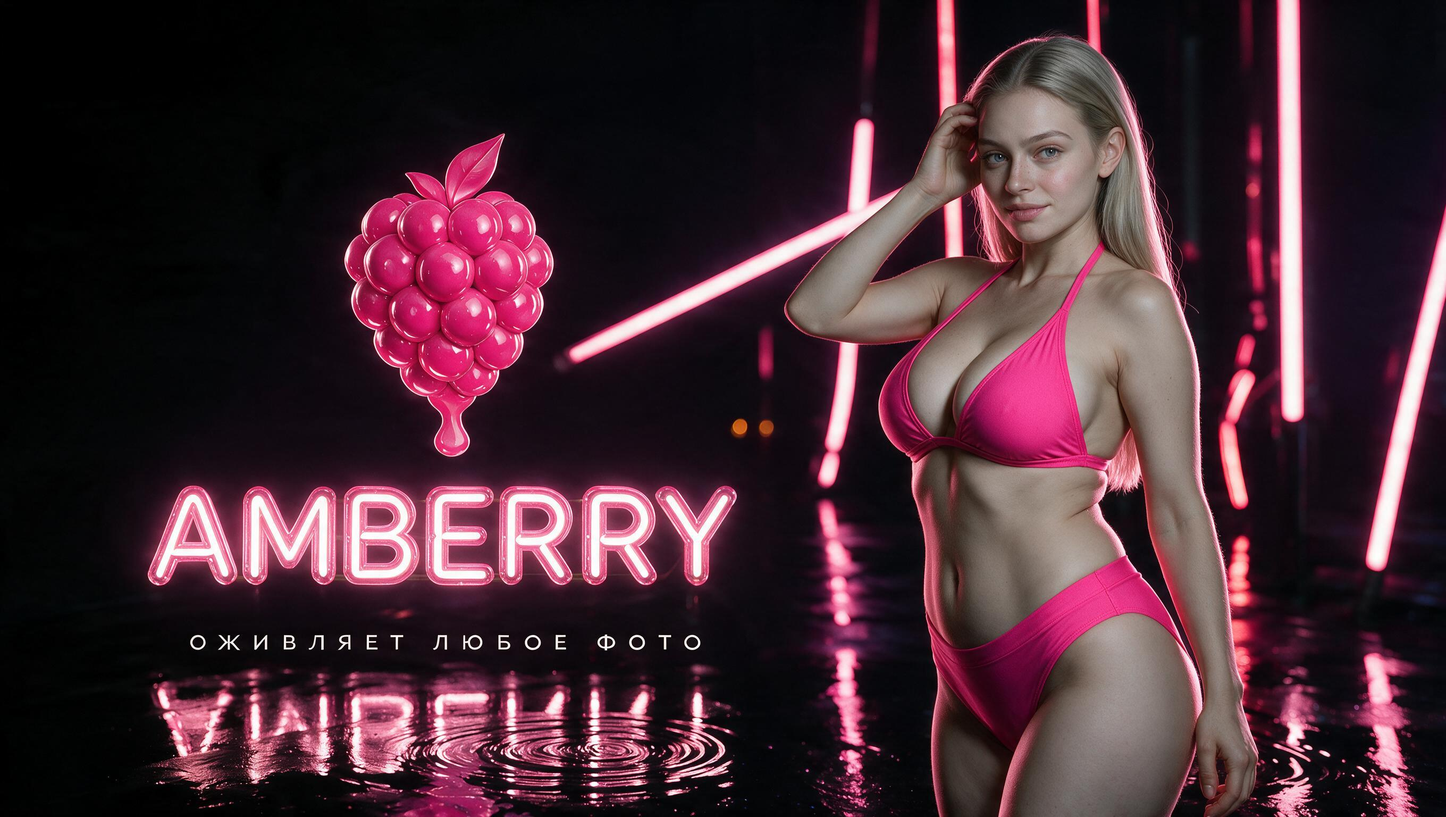
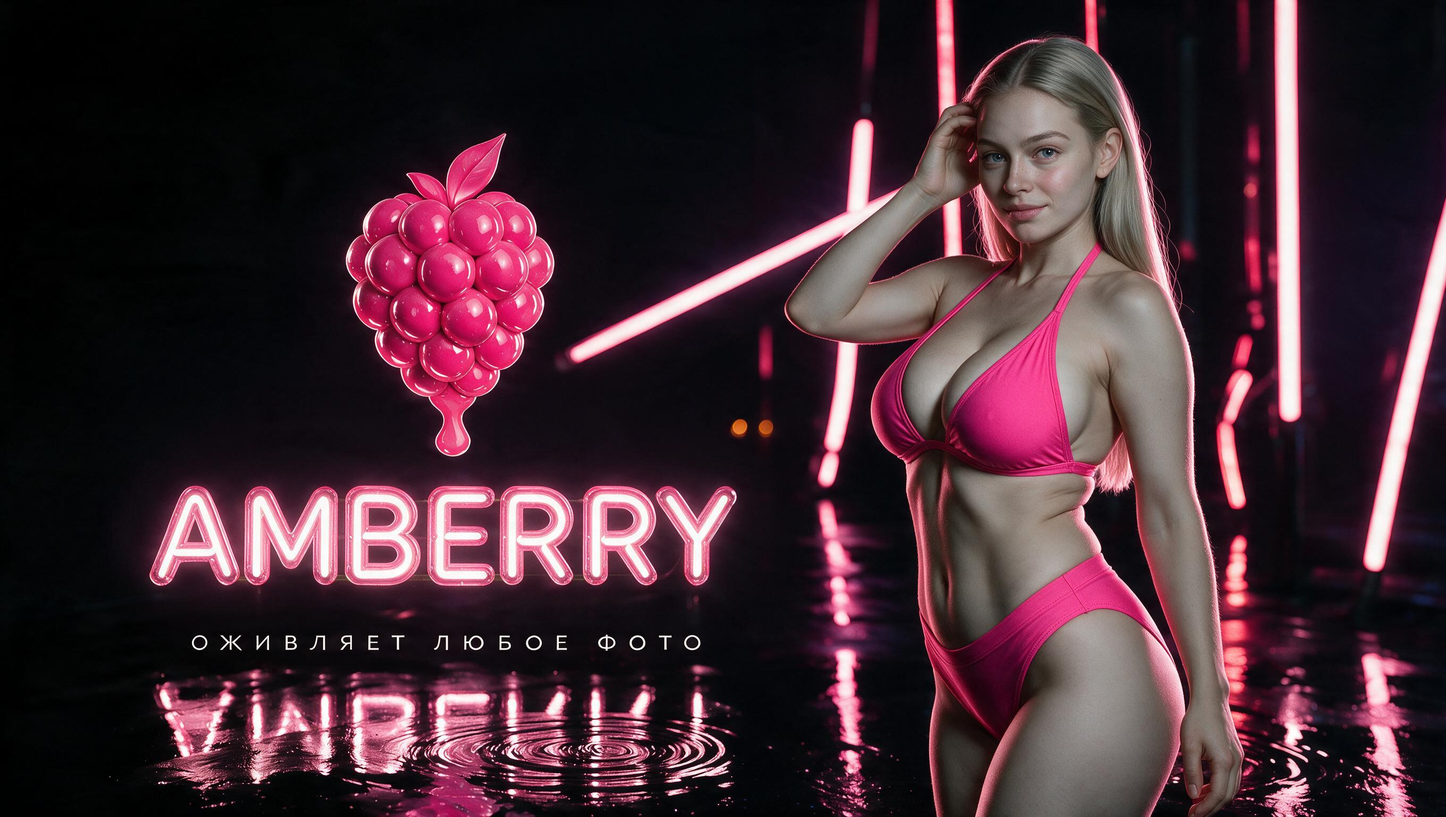
Заставка: плоский живот при полной груди и бёдрах
Руководитель на прошлый кадр: «жирок убирай». Формы при этом оставить.

В промпт добавлен отдельный абзац про середину корпуса, и он нарочно
тянет в ДРУГУЮ сторону от груди и бёдер: плоский подтянутый живот,
косые мышцы режут талию, никакой мягкости и складки над поясом. В
отрицание добавлены belly fat, soft stomach, belly roll, muffin top,
thick waist - без этого модель читает «пышные формы» целиком и
добавляет объём заодно и в талию.

Контраст тяжёлой груди, жёсткого живота и широких бёдер и есть тот
силуэт, который просили.

Claude-Session: https://claude.ai/code/session_014k3YT9DWK5PbNrwRgKykrK

diff --git a/rocket-panel/brand-amberry/start/сделать_баннер.py b/rocket-panel/brand-amberry/start/сделать_баннер.py
@@ -46,8 +46,18 @@ chest: a deep neckline of cleavage, real volume and natural downward
 weight filling the halter top completely so the fabric is stretched
 taut over it, a visible soft swell above the neckline. The previous
 attempt left her flat chested and that is exactly what must not happen
-again. Pair that bust with a clearly nipped narrow waist, wide rounded
-hips and full rounded glutes, strong shapely thighs. The silhouette should read as unmistakably voluptuous and
+again. Pair that bust with wide rounded hips and full
+rounded glutes and strong shapely thighs.
+
+HER MIDSECTION IS THE OTHER HALF OF THIS, and it must go the OPPOSITE
+way from the bust and hips: a flat, taut, athletic stomach. Tight
+abdominal wall with a faint visible line down the centre and the soft
+suggestion of upper abs, the obliques cutting a clean sharp line into
+the narrow waist. No soft belly, no roll or fold over the waistband, no
+pooch below the navel, no thickness through the middle. She trains: the
+waist is hard and flat while the chest and hips are full. That contrast
+between a heavy bust, a hard flat stomach and wide hips IS the
+silhouette being asked for. The silhouette should read as unmistakably voluptuous and
 womanly from across a room, at thumbnail size, before any detail is
 legible: a pronounced waist to hip ratio, a clear S curve through the
 torso and hip. Soft realistic flesh with believable weight and gentle
@@ -116,6 +126,7 @@ smoothing, no CGI doll look.
 ОТРИЦАНИЕ = ("child, teenager, underage, blurry, deformed hands, extra "
              "fingers, extra limbs, warped anatomy, plastic skin, "
              "misspelled text, garbled letters, watermark, second person, "
+             "belly fat, soft stomach, belly roll, muffin top, thick waist, "
              "grey background, washed out blacks")
 
 
